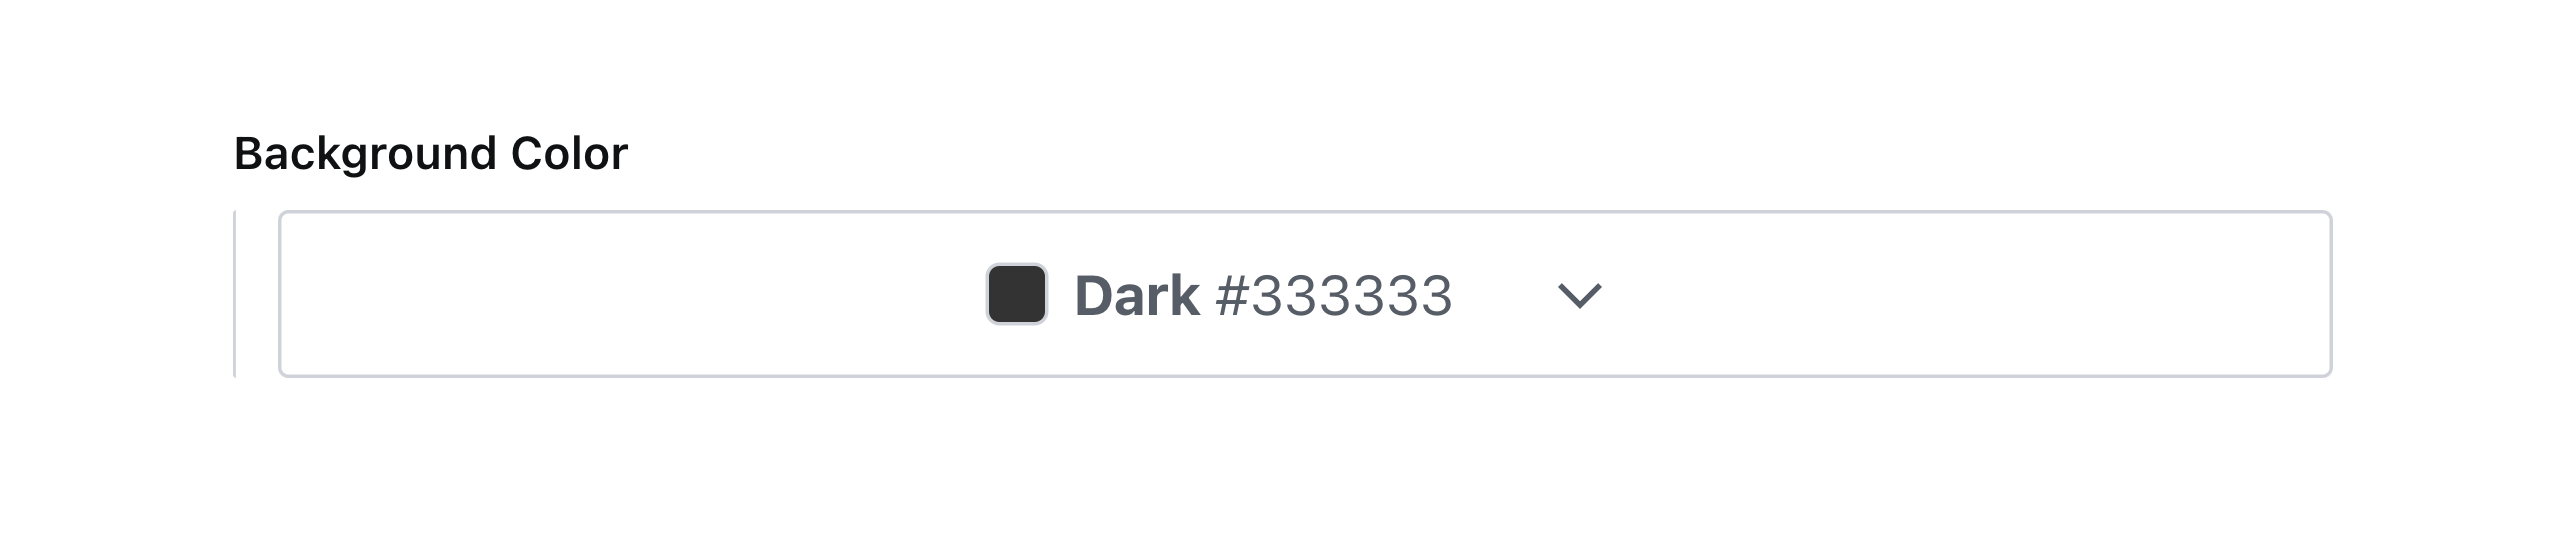
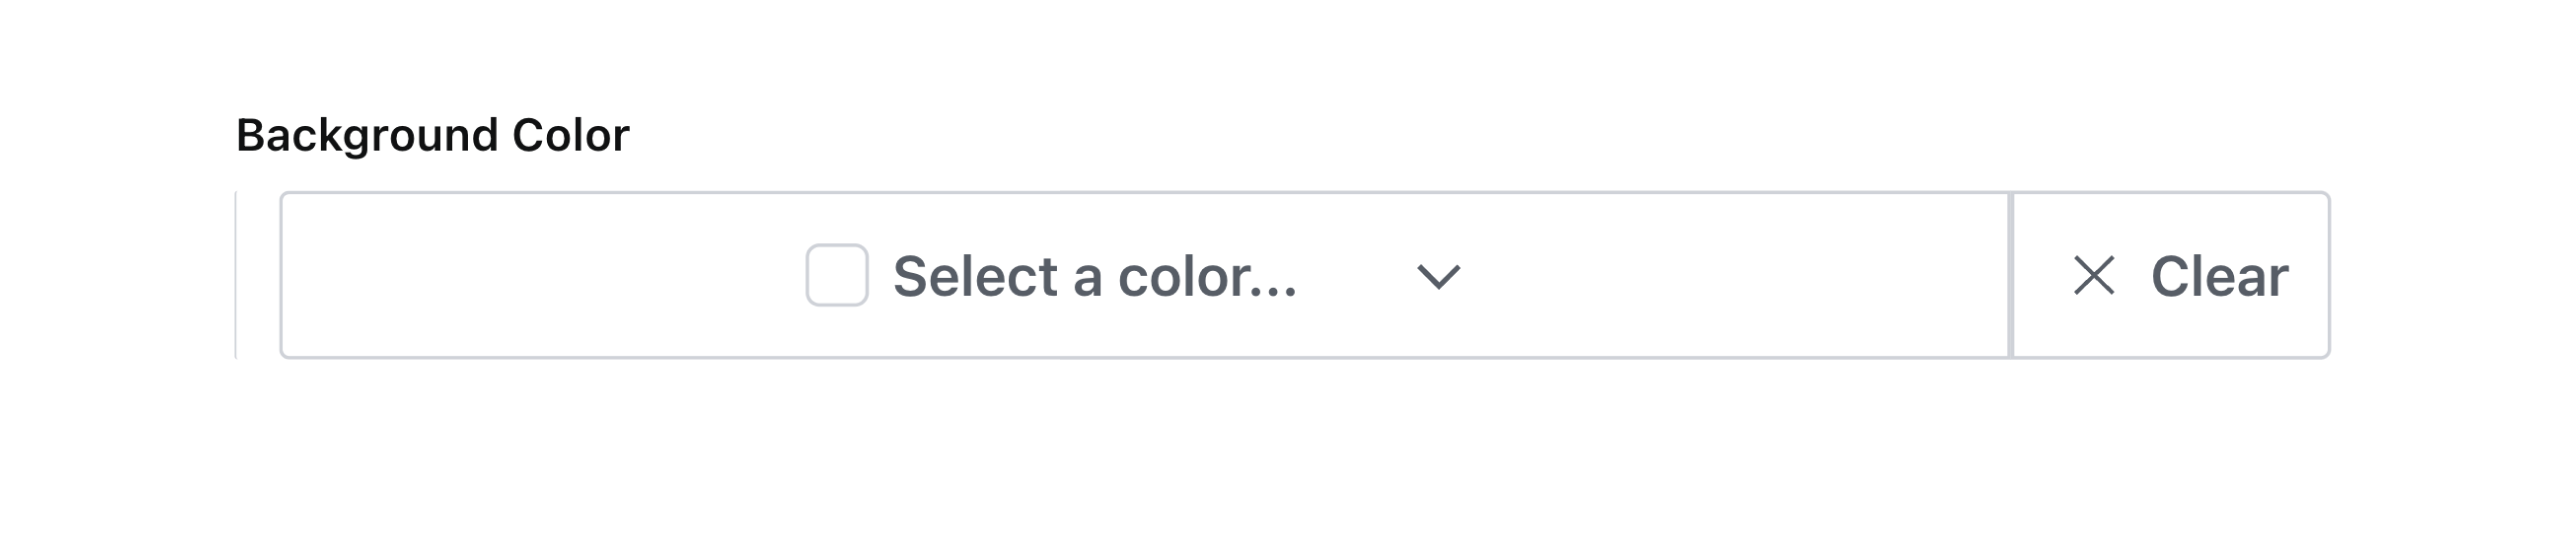
feat: clear button, refactor allowCustomValue

diff --git a/src/ColorInput.tsx b/src/ColorInput.tsx
@@ -1,8 +1,9 @@
 import {ChevronDownIcon} from '@sanity/icons'
-import {Box, Button, Card, Container, Inline, Popover, Stack, Text} from '@sanity/ui'
+import {Box, Button, Card, Container, Flex, Inline, Popover, Stack, Text} from '@sanity/ui'
 import React, {useCallback, useEffect, useRef, useState} from 'react'
-import {ObjectInputProps, ObjectOptions, ObjectSchemaType, set} from 'sanity'
+import {ObjectInputProps, ObjectOptions, ObjectSchemaType, set, unset} from 'sanity'
 import {ChromePicker} from 'react-color'
+import {CloseIcon} from '@sanity/icons'
 
 export interface SimplerColorType {
   label: string
@@ -11,7 +12,6 @@ export interface SimplerColorType {
 
 export interface ColorOptions extends Omit<ObjectOptions, 'columns'> {
   colorList?: Array<SimplerColorType>
-  allowCustomValue?: boolean
 }
 
 export type SimplerColorSchemaType = Omit<ObjectSchemaType, 'options'> & {
@@ -81,38 +81,69 @@ export const SimplerColorInput = (props: ObjectInputProps) => {
         portal
         open={pickerIsOpen}
       >
-        <Button
-          style={{width: '100%', textAlign: 'center'}}
-          mode="ghost"
-          padding={2}
-          onClick={() =>
-            type.options?.colorList ? setIsOpen(!isOpen) : setPickerIsOpen(!pickerIsOpen)
-          }
-        >
-          <Inline space={4}>
-            <Inline space={1}>
-              <Box>
-                <Card
-                  style={{backgroundColor: selectedColor?.value || '#ffffff'}}
-                  radius={2}
-                  shadow={1}
-                  padding={2}
-                  margin={1}
-                />
-              </Box>
-              <Text weight="bold">{selectedColor?.label || 'Select a color...'} </Text>
-              <Text>{selectedColor?.value}</Text>
+        <Flex>
+          <Button
+            style={{
+              width: '100%',
+              textAlign: 'center',
+              borderTopRightRadius: '0',
+              borderBottomRightRadius: '0',
+            }}
+            mode="ghost"
+            padding={2}
+            onClick={() =>
+              type.options?.colorList ? setIsOpen(!isOpen) : setPickerIsOpen(!pickerIsOpen)
+            }
+          >
+            <Inline space={4}>
+              <Inline space={1}>
+                <Box>
+                  <Card
+                    style={{backgroundColor: selectedColor?.value || '#ffffff'}}
+                    radius={2}
+                    shadow={1}
+                    padding={2}
+                    margin={1}
+                  />
+                </Box>
+                <Text weight="semibold">{selectedColor?.label || 'Select a color...'} </Text>
+                <Text>{selectedColor?.value}</Text>
+              </Inline>
+              <ChevronDownIcon width={32} height={32} />
             </Inline>
-            <ChevronDownIcon width={32} height={32} />
-          </Inline>
-        </Button>
+          </Button>
+          <Button
+            mode="ghost"
+            onClick={() => {
+              setSelectedColor(undefined)
+              onChange(unset())
+            }}
+            style={{borderTopLeftRadius: '0', borderBottomLeftRadius: '0'}}
+          >
+            <Inline space={1}>
+              <CloseIcon width={24} height={24} />
+              <Text weight="semibold">Clear</Text>
+            </Inline>
+          </Button>
+        </Flex>
       </Popover>
-
       {isOpen && type.options?.colorList && (
         <Card radius={2} shadow={3} marginTop={1} overflow="hidden">
           <Stack>
-            {type.options?.colorList?.map((color) => {
-              return (
+            {type.options?.colorList?.map((color) =>
+              color.value === 'custom' ? (
+                <Button
+                  key={color.label}
+                  radius={0}
+                  mode="bleed"
+                  onClick={() => {
+                    setIsOpen(false)
+                    setPickerIsOpen(true)
+                  }}
+                >
+                  <Text>{color.label}</Text>
+                </Button>
+              ) : (
                 <Button
                   key={color.label}
                   radius={0}
@@ -131,18 +162,6 @@ export const SimplerColorInput = (props: ObjectInputProps) => {
                   </Box>
                 </Button>
               )
-            })}
-            {type.options?.allowCustomValue && (
-              <Button
-                radius={0}
-                mode="bleed"
-                onClick={() => {
-                  setIsOpen(false)
-                  setPickerIsOpen(true)
-                }}
-              >
-                <Text>Custom...</Text>
-              </Button>
             )}
           </Stack>
         </Card>

diff --git a/README.md b/README.md
@@ -6,7 +6,7 @@
       <p>Created by <a href="https://github.com/AlyssaKirstine">@AlyssaKirstine</a></p>
   </div>
 
-![This is an image](assets/allow-custom-value.png)
+![Color input dropdown](assets/allow-custom-value.png)
 
 
 ## 🤩 Features
@@ -69,7 +69,7 @@ Now you can use the `simplerColor` type in your schema types:
 
 ### Color list
 
-To add list of predefined selectable color swatches for the user to choose from use `colorList`.
+To add list of predefined selectable color swatches for the user to choose from use `colorList`. Supports hexadecimal, RGB, or HSL color values. See [legal CSS color values](https://www.w3schools.com/cssref/css_colors_legal.php) for specification.
 
 ```js
 // ...fields...
@@ -90,11 +90,11 @@ To add list of predefined selectable color swatches for the user to choose from 
 
 Which will render accordingly:
 
-![This is an image](assets/color-list.png)
+![Color List example](assets/color-list.png)
 
 ### Allow Custom Values
 
-To allow custom color values, set `allowCustomValue` to `true`:
+To allow custom color values, add an array item to `colorList` with its value set to `custom`.
 
 ```js
 // ...fields...
@@ -108,15 +108,16 @@ To allow custom color values, set `allowCustomValue` to `true`:
       { label: 'Dark', value: '#333333' },
       { label: 'Brand', value: '#ca786d' },
       { label: 'Accent', value: '#626754' },
+      { label: 'Custom...', value: 'custom' },
     ],
-    allowCustomValue: true
   }
 }
 ```
 
 Which will render accordingly:
 
-![This is an image](assets/color-picker.png)
+![Allow custom value example](assets/allow-custom-value.png)
+![Color picker](assets/color-picker.png)
 
 **Note:** custom color values will automatically be enabled if no color list is specified.
 
